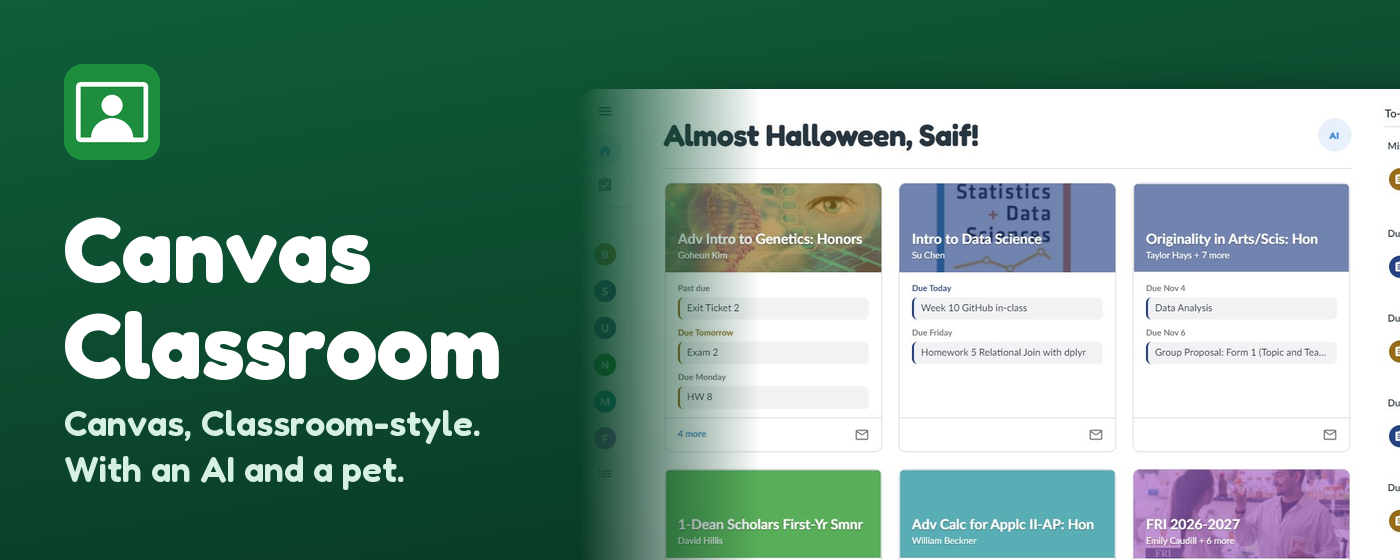
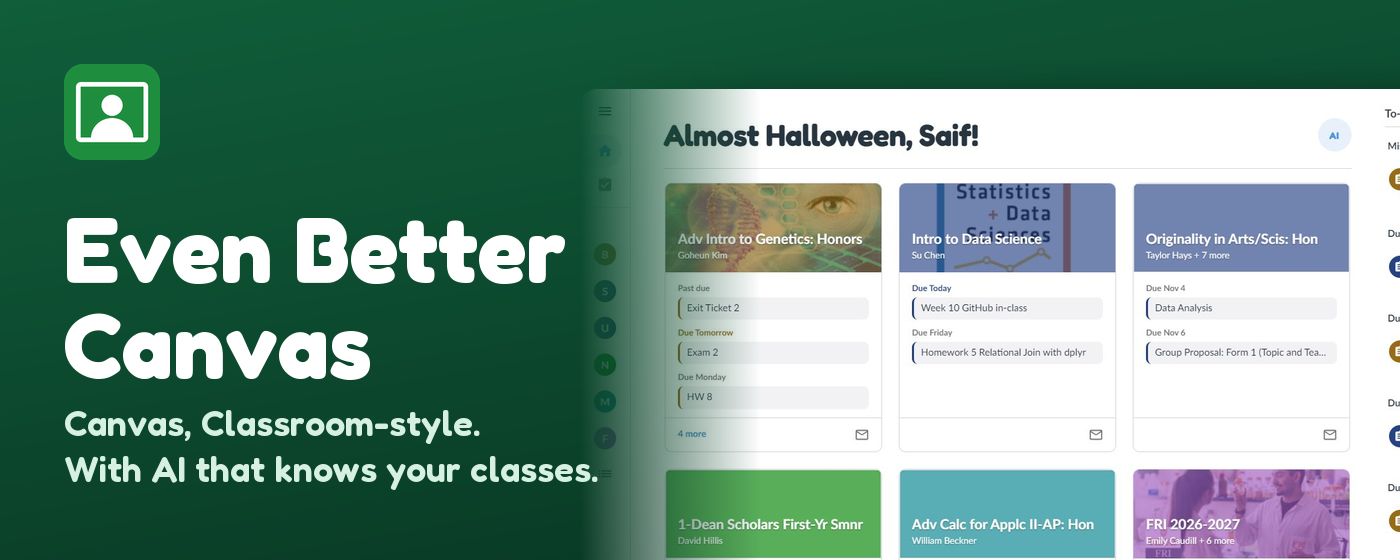
Rename to Even Better Canvas; store copy: BetterCanvas required, bring-your-own-key AI, pet no longer headlined

diff --git a/classroom.js b/classroom.js
@@ -1,4 +1,4 @@
-// Canvas Classroom: Google Classroom-style layout on top of Canvas + BetterCampus.
+// Even Better Canvas: Google Classroom-style layout on top of Canvas + BetterCampus.
 //   - left rail (Classes, To-do, each course) that expands on hover and can be pinned
 //   - course pages get a top tab bar (Home, Classwork, People) plus a searchable panel of every other tool
 //   - Home / Classwork / To-do are rebuilt from the Canvas API (see early.js for which URLs)

diff --git a/options.html b/options.html
@@ -2,7 +2,7 @@
 <html lang="en">
 <head>
   <meta charset="utf-8">
-  <title>Canvas Classroom settings</title>
+  <title>Even Better Canvas settings</title>
   <style>
     body { font: 15px/1.5 system-ui, sans-serif; max-width: 520px; margin: 48px auto; padding: 0 16px; color: #1f1f1f; }
     h1 { font-size: 22px; margin: 0 0 4px; }

diff --git a/classroom.css b/classroom.css
@@ -1,4 +1,4 @@
-/* Canvas Classroom. Every rule is scoped under html.gcx (set by early.js), so the
+/* Even Better Canvas. Every rule is scoped under html.gcx (set by early.js), so the
    extension is inert on pages where classroom.js turns it off. Colors read the
    BetterCampus theme variables when they exist. */
 

diff --git a/store/make-images.py b/store/make-images.py
@@ -94,15 +94,15 @@ def promo(w, h, name, tagline, shot_w, icon_px, title_px, tag_px, pad, show=0.82
 
 def main():
     ap = argparse.ArgumentParser()
-    ap.add_argument('--name', default='Canvas Classroom')
+    ap.add_argument('--name', default='Even Better Canvas')
     a = ap.parse_args()
     os.makedirs(OUT, exist_ok=True)
     for i, n in enumerate(SCREENSHOTS, 1):
         im = Image.open(os.path.join(SHOTS, n + '.jpg')).convert('RGB').resize((1280, 800), Image.LANCZOS)
         im.save(os.path.join(OUT, f'screenshot-{i}-{n}.png'))
-    two = a.name.replace(' ', '\n', 1)
+    two = '\n'.join(a.name.rsplit(' ', 1))
     promo(440, 280, two, 'Canvas, Classroom-style', 320, 40, 32, 15, 22, show=0.6).save(os.path.join(OUT, 'promo-small.png'))
-    promo(1400, 560, two, 'Canvas, Classroom-style.\nWith an AI and a pet.', 1000, 96, 92, 36, 64).save(os.path.join(OUT, 'promo-marquee.png'))
+    promo(1400, 560, two, 'Canvas, Classroom-style.\nWith AI that knows your classes.', 1000, 96, 92, 36, 64).save(os.path.join(OUT, 'promo-marquee.png'))
     print('wrote', OUT)
 
 

diff --git a/store/listing.md b/store/listing.md
@@ -6,7 +6,8 @@ Everything the Developer Dashboard asks for, ready to paste. Images are in `stor
 ## Before submitting
 
 - [ ] Developer account: https://chrome.google.com/webstore/devconsole ($5 one-time fee, 2-step verification on).
-- [ ] Final name in `manifest.json`, `store/make-images.py --name`, the README and `docs/privacy.md`.
+- [x] Final name in `manifest.json`, `store/make-images.py --name`, the README and `docs/privacy.md`
+      (Even Better Canvas; if the store turns it down, change it in all four and rebuild the images).
 - [ ] A new icon. The current one (green board with a person) is close to Google Classroom's, and the store
       rejects icons that look like another product's.
 - [ ] `version` in `manifest.json` (1.0.0 for the first listing); every later upload needs a higher one.
@@ -19,11 +20,11 @@ Everything the Developer Dashboard asks for, ready to paste. Images are in `stor
 
 ## Store listing tab
 
-**Name** (from the manifest, max 75): Canvas Classroom
+**Name** (from the manifest, max 75): Even Better Canvas
 
 **Summary** (the store takes it from the manifest's `description`, which already has it; 132 characters, the maximum):
 
-> Canvas, Classroom-style: a class rail, Classwork, one To-do list, files that open in place, an AI that knows your classes and a pet.
+> BETTER CANVAS MUST BE INSTALLED! A Google Classroom-inspired interface for BetterCanvas: assignments, file viewer, AI help and more.
 
 **Category:** Education
 
@@ -32,9 +33,11 @@ Everything the Developer Dashboard asks for, ready to paste. Images are in `stor
 **Description:**
 
 ```
+BETTER CANVAS MUST BE INSTALLED! Get BetterCampus (previously BetterCanvas), free on the Chrome Web Store, first.
+
 Canvas, but it feels like Google Classroom, and then some.
 
-Canvas Classroom rebuilds Canvas around how you actually use it. Pages open instantly from your last visit and refresh quietly in the background.
+Even Better Canvas rebuilds Canvas around how you actually use it. Pages open instantly from your last visit and refresh quietly in the background.
 
 FEELS LIKE CLASSROOM
 • A slim rail with all your classes. Hover to expand, pin it open, give each class an icon and color.
@@ -44,14 +47,10 @@ FEELS LIKE CLASSROOM
 • Assignment pages with a Your work card: status, what you turned in, private comments, and turning in text, links or files.
 • One To-do list for every class: Assigned, Missing, Done.
 
-ASK ANYTHING
+AI ASSISTANCE (BRING YOUR OWN KEY)
 Press Ctrl + Space on any Canvas page and ask: "what's due this week?", "what did I get on Exam 2?", "summarize the lecture 9 slides". It reads your Canvas to answer, links what it cites, and can take you to the page. It only reads; it never submits or posts.
-
-AI REPLIES IN THE INBOX
-Start a reply and gray text suggests the rest, in your voice. Tab takes it, Ctrl + → takes one word, Esc hides it.
-
-A PET
-Turn one on in settings: pick one of 3,600+ pixel pets from codex-pets.net, import your own, or have AI draw one (your school's mascot, say). It wanders along the bottom of the page, naps with little z's, runs alongside the AI while it thinks, and can be picked up and thrown. Soft sound effects if you want them.
+In the Inbox, start a reply and gray text suggests the rest, in your voice. Tab takes it, Esc hides it.
+The AI runs on your own OpenAI key, which you paste into the settings. It stays in your browser and goes only to OpenAI. We never see it, or anything you ask.
 
 MAKE IT YOURS
 • Themes, or your school's own colors and logo
@@ -59,17 +58,18 @@ MAKE IT YOURS
 • Shortcuts on class cards, pinned links on a class's Home
 • Smooth page transitions (cards grow into the class banner), or turn motion off
 • Seasonal confetti when you turn something in
+• An optional pixel companion that reminds you what's due
 
 FILES OPEN IN PLACE
 PDFs, slides and documents open over the page with zoom, download and details, instead of sending you somewhere else.
 
 GOOD TO KNOW
 • Works on Canvas sites at *.instructure.com.
-• Built to run alongside BetterCampus (free on the Chrome Web Store), which supplies the to-do sidebar, dark mode and themes. Canvas Classroom works without it, but is best with it.
-• The AI features use your own OpenAI key (add it in the extension's options). Everything else works without one.
-• No account, no tracking, no developer server. Canvas data is cached in your browser; the AI features send what they need to OpenAI with your key. Privacy policy: https://github.com/SaifSyed08/canvas-classroom/blob/main/docs/privacy.md
+• Requires BetterCampus (previously BetterCanvas, free on the Chrome Web Store), which supplies the to-do sidebar, dark mode and themes.
+• Everything except the AI works without an OpenAI key.
+• We don't collect your data. No account, no tracking, no analytics, no developer server: your Canvas data is cached in your own browser, and the AI features send what they need straight to OpenAI with your key. Privacy policy: https://github.com/SaifSyed08/canvas-classroom/blob/main/docs/privacy.md
 
-Not affiliated with Instructure, Google or BetterCampus.
+Not affiliated with Instructure, Google or BetterCampus (BetterCanvas).
 ```
 
 **Screenshots** (1280x800, in this order): `screenshot-1-dashboard.png`, `screenshot-2-course-home.png`,

diff --git a/README.md b/README.md
@@ -1,4 +1,4 @@
-# Canvas Classroom
+# Even Better Canvas
 
 **Canvas, but it feels like Google Classroom, and then some.**
 
@@ -7,8 +7,8 @@ Home / Classwork / People on every course, one To-do list for everything, files 
 that has read your classes, and a little pet that lives at the bottom of the page. Pages open instantly from
 cache and slide into each other instead of flashing white.
 
-It runs on top of [BetterCampus](https://chromewebstore.google.com/detail/cndibmoanboadcifjkjbdpjgfedanolh),
-so keep that installed: it still supplies its to-do sidebar, themes and dark mode.
+It runs on top of [BetterCampus](https://chromewebstore.google.com/detail/cndibmoanboadcifjkjbdpjgfedanolh)
+(previously BetterCanvas), so keep that installed: it still supplies its to-do sidebar, themes and dark mode.
 
 ![Dashboard](docs/screenshots/dashboard.jpg)
 

diff --git a/docs/privacy.md b/docs/privacy.md
@@ -1,11 +1,11 @@
 # Privacy policy
 
-Canvas Classroom is a browser extension that changes how Canvas looks and adds an AI assistant and a pet.
-This page says what it reads, where that goes, and what it keeps. Last updated October 28, 2026.
+Even Better Canvas is a browser extension that changes how Canvas looks and adds an AI assistant and a pet.
+This page says what it reads, where that goes, and what it keeps. Last updated October 29, 2026.
 
 ## The short version
 
-- There is no Canvas Classroom server. The developer never receives your data, and there is no analytics,
+- There is no Even Better Canvas server. The developer never receives your data, and there is no analytics,
   tracking or advertising.
 - The extension reads your Canvas through your own signed-in session, and keeps what it reads in your
   browser.
